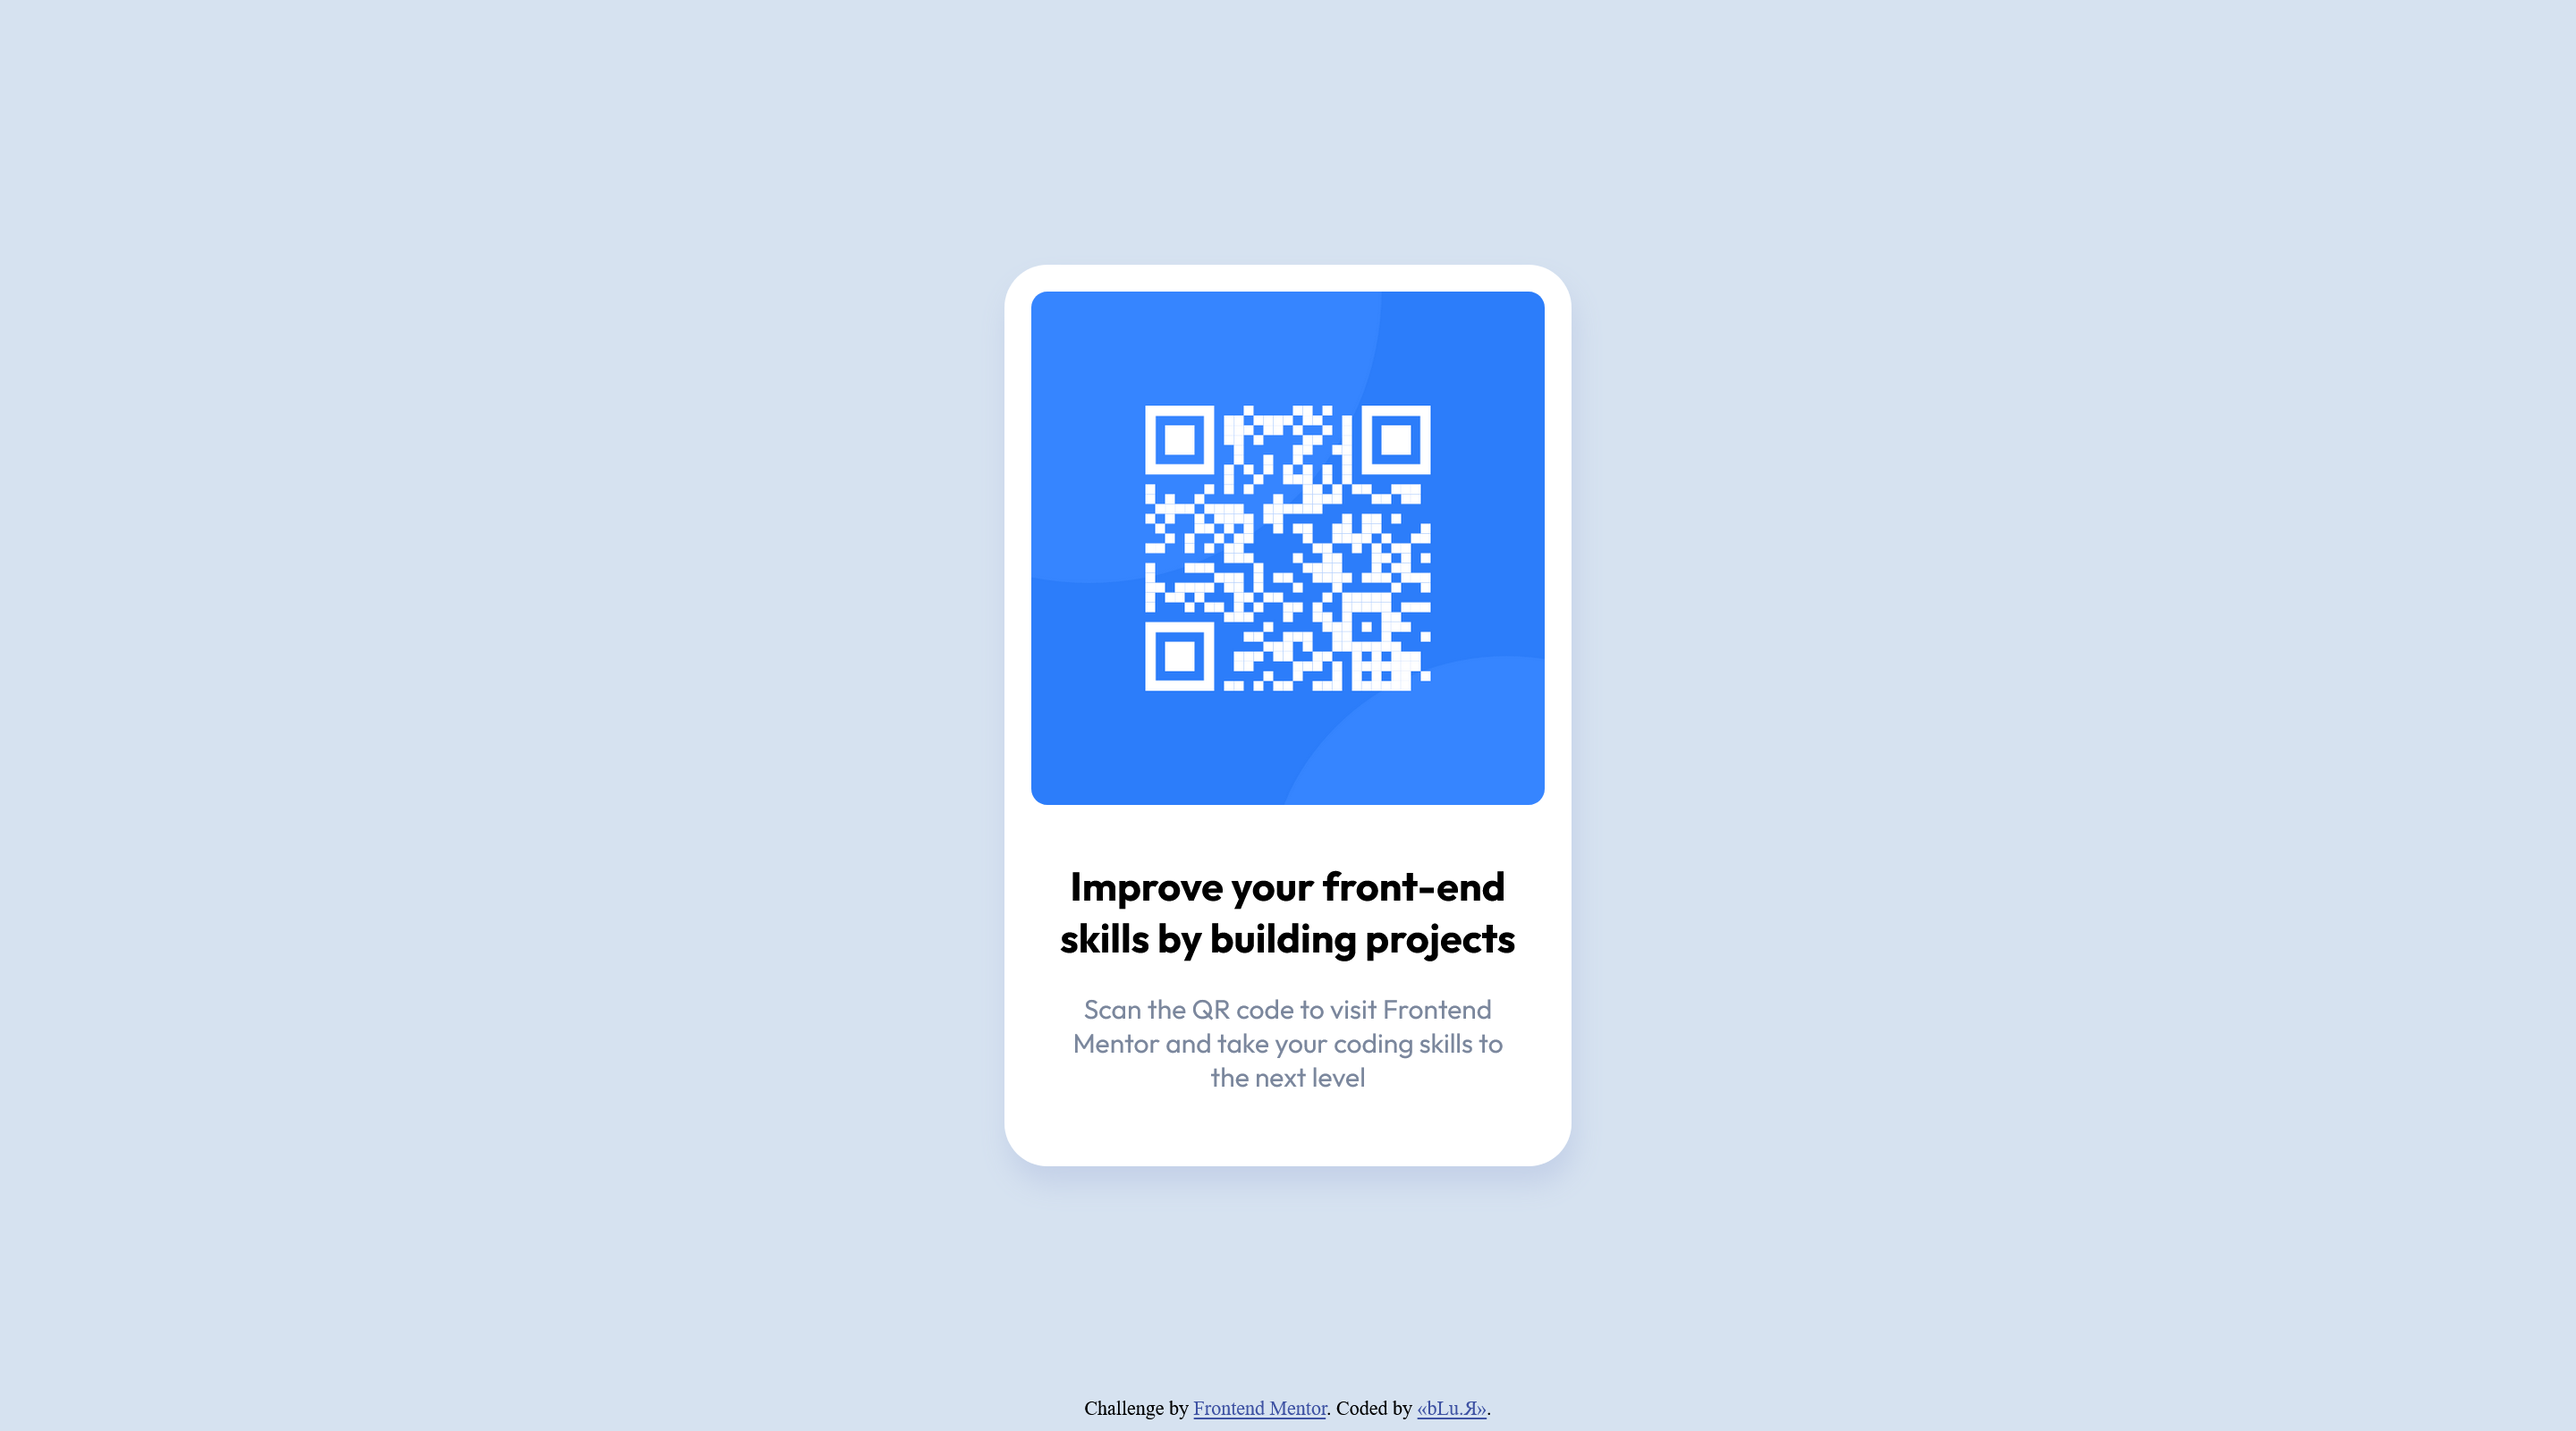
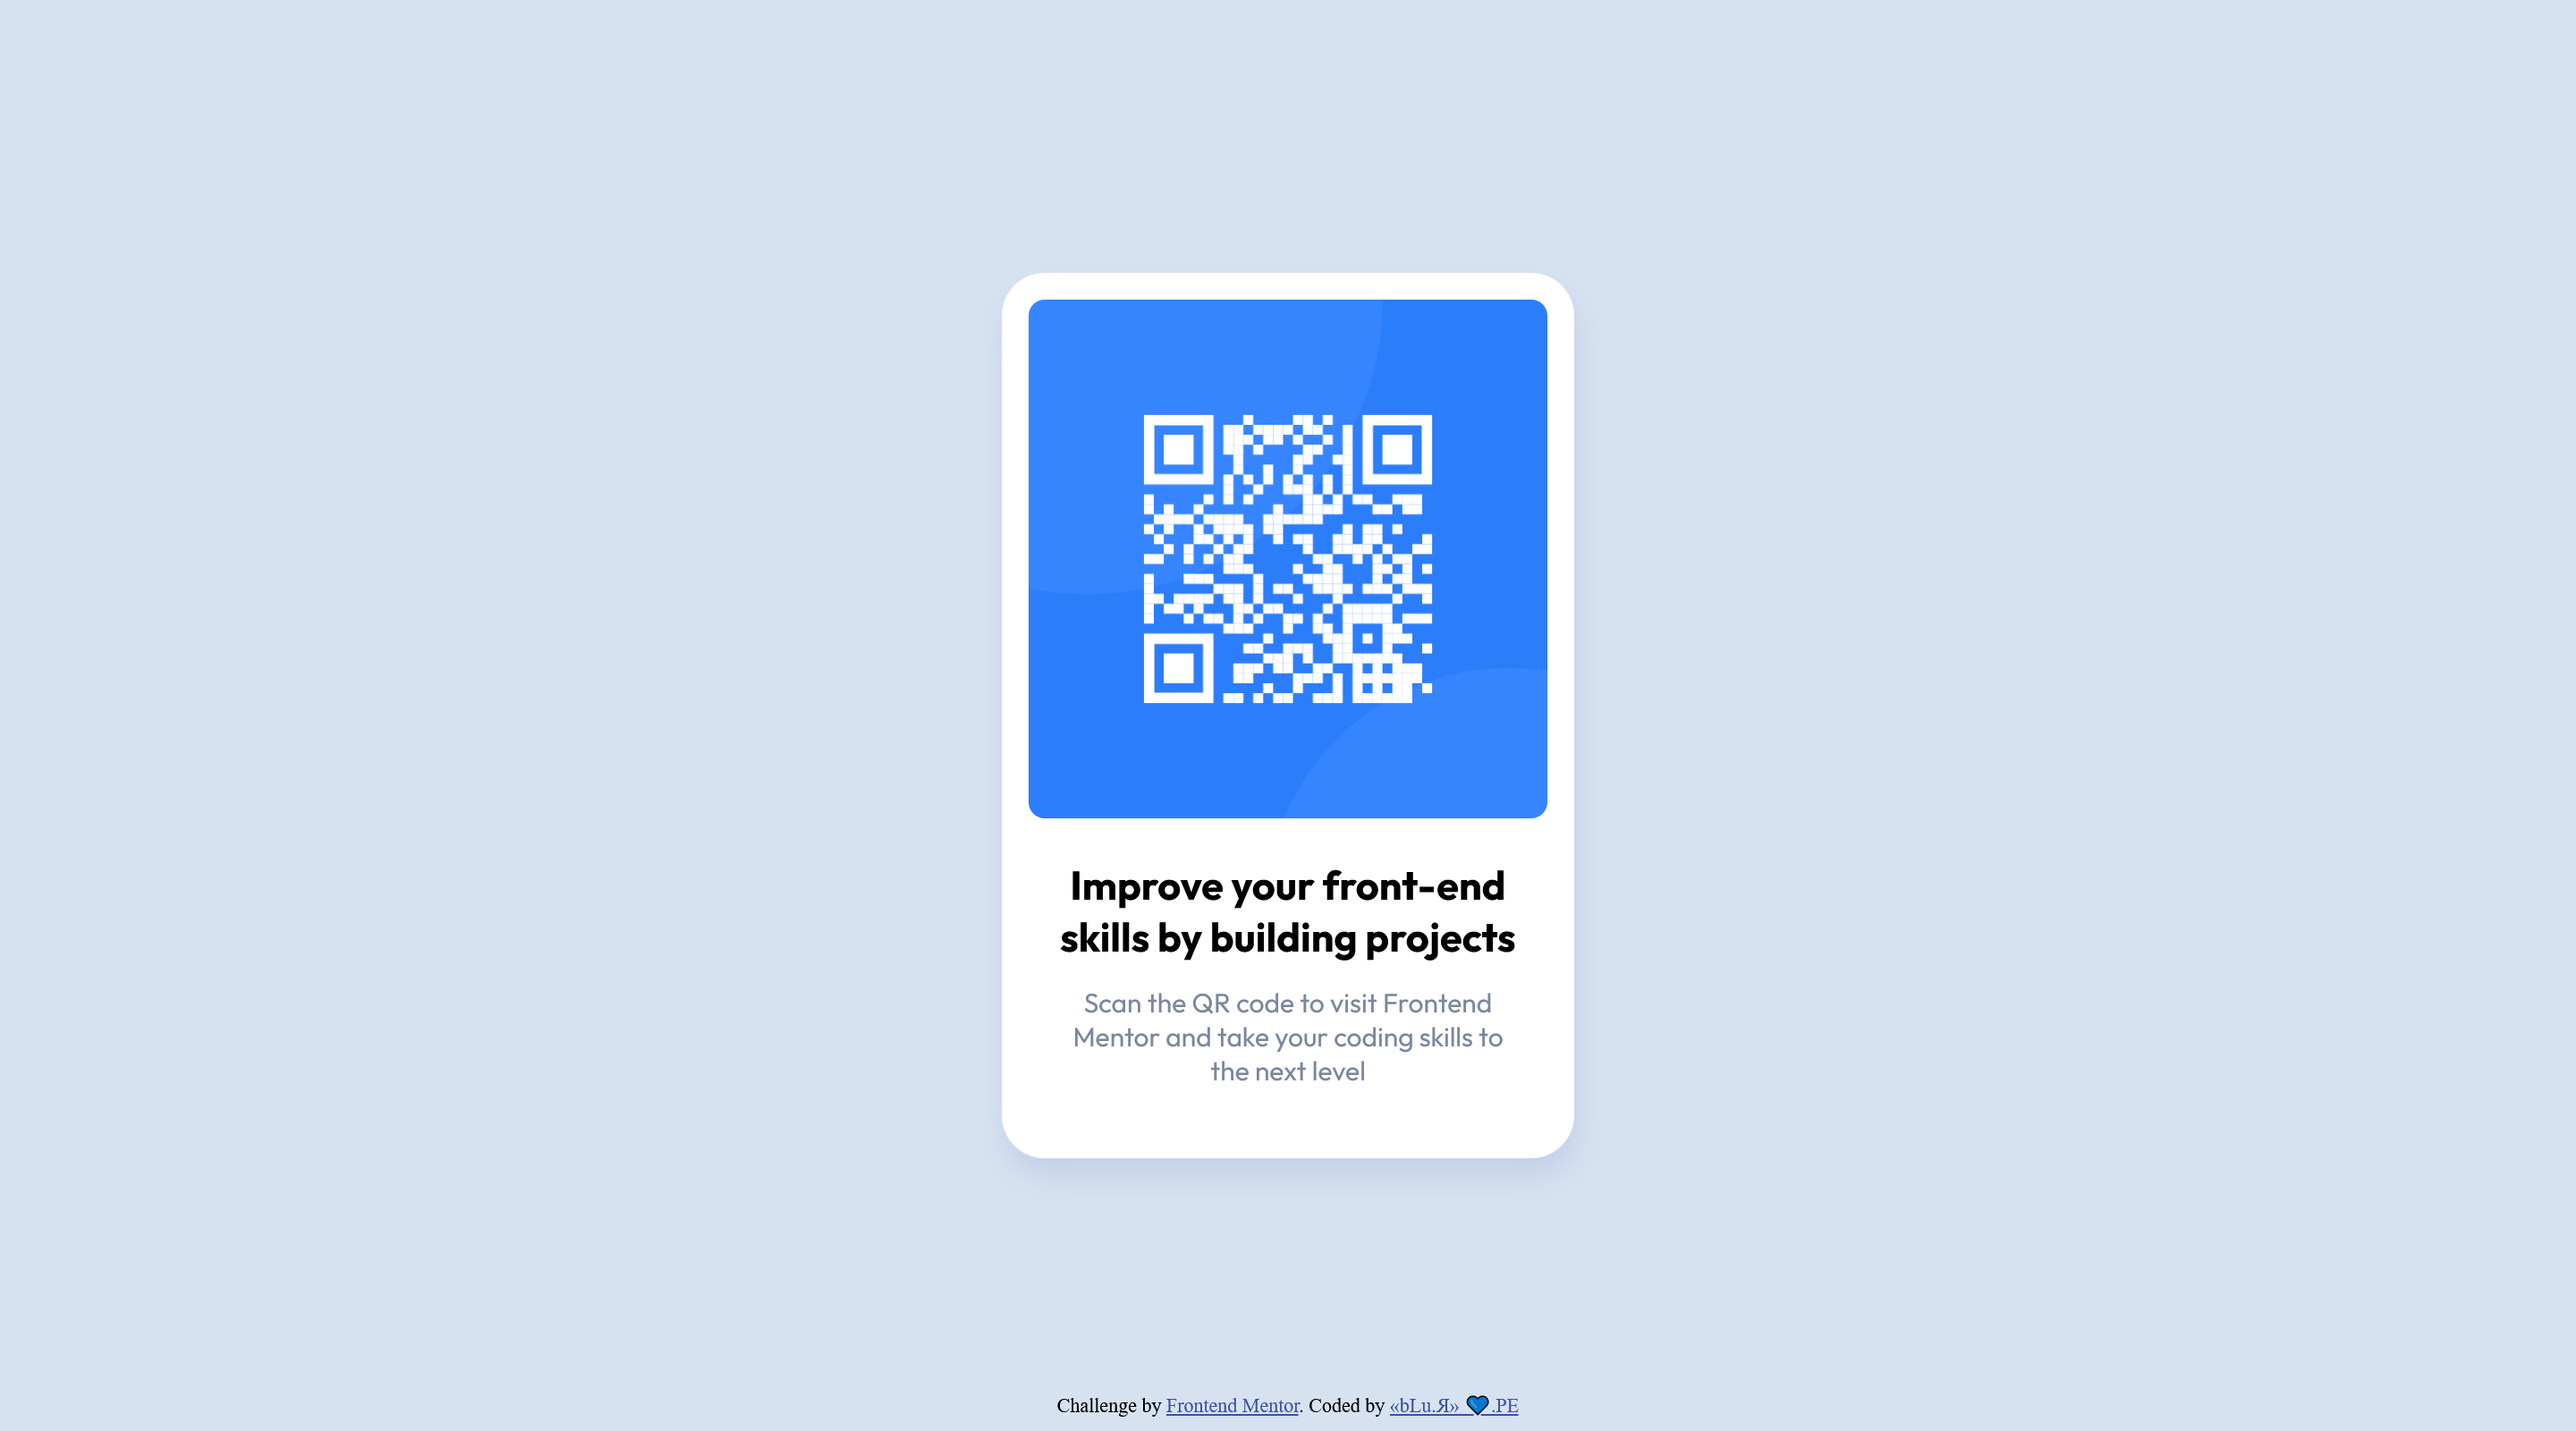
Some fixes

diff --git a/index.html b/index.html
@@ -8,36 +8,38 @@
 
     <link rel="icon" type="image/png" sizes="32x32" href="./images/favicon-32x32.png">
 
-    <title>Frontend Mentor | QR code component</title>
-    <link rel="stylesheet" href="./style.css">
     <link rel="preconnect" href="https://fonts.googleapis.com">
     <link rel="preconnect" href="https://fonts.gstatic.com" crossorigin>
     <link href="https://fonts.googleapis.com/css2?family=Outfit:wght@400;700&display=swap" rel="stylesheet">
+    <link rel="stylesheet" href="./style.css">
+    <title>Frontend Mentor | QR code component</title>
 
 </head>
 
 <body>
+    <main class="card-container">
 
-    <section class="card">
-        <img src="./images/image-qr-code.png" alt="qr">
-        <div class="info">
-            <h2>
-                Improve your front-end skills by building projects
-            </h2>
-            <p>
+        <article class="card">
+            <img src="./images/image-qr-code.png" alt="qr">
+            <div class="info">
+                <h1>
+                    Improve your front-end skills by building projects
+                </h1>
+                <p>
 
-                Scan the QR code to visit Frontend Mentor and take your coding skills to the next level
-            </p>
+                    Scan the QR code to visit Frontend Mentor and take your coding skills to the next level
+                </p>
 
-        </div>
-    </section>
+            </div>
+        </article>
+    </main>
 
 
 
-    <div class="attribution">
+    <footer class="attribution">
         Challenge by <a href="https://www.frontendmentor.io?ref=challenge" target="_blank">Frontend Mentor</a>.
-        Coded by <a href="#">«bLu.Я»</a>.
-    </div>
+        Coded by <a href="#">«bLu.Я» 💙.PE</a>
+    </footer>
 </body>
 
 </html>

diff --git a/style.css b/style.css
@@ -16,8 +16,8 @@ body {
     background-color: hsl(0, 0%, 100%);
     padding: 15px;
     border-radius: 24px;
-    height: 75%;
-    width: 86%;
+    min-height: 495px;
+    max-width: 320px;
     margin: 0 auto;
     box-shadow: 2px 10px 15px hsl(218, 44%, 84%);
 }
@@ -51,27 +51,8 @@ body {
     color: hsl(228, 45%, 44%);
 }
 
-@media (640px <= width) {
+@media (width <= 375px) {
     .card {
-        height: 73%;
-        width: 58%;
-    }
-}
-@media (990px <= width) {
-    .card {
-        height: 68%;
-        width: 33%;
-    }
-}
-@media (1440px <= width) {
-    .card {
-        height: 63%;
-        width: 22%;
-    }
-    .info {
-        padding: 1.7rem 1rem;
-    }
-    .info p {
-        margin-top: 1rem;
+        width: 86%;
     }
 }

diff --git a/README.md b/README.md
@@ -24,8 +24,8 @@ This is a solution to the [QR code component challenge on Frontend Mentor](https
 
 ### Links
 
--   Solution URL: [Add solution URL here](https://github.com/blu-R/qr-code-component)
--   Live Site URL: [Add live site URL here](https://qr-code-component-blur.netlify.app/)
+-   Solution URL: [https://github.com/blu-R/qr-code-component](https://github.com/blu-R/qr-code-component)
+-   Live Site URL: [https://qr-code-component-blur.netlify.app/](https://qr-code-component-blur.netlify.app/)
 
 ## My process
 
